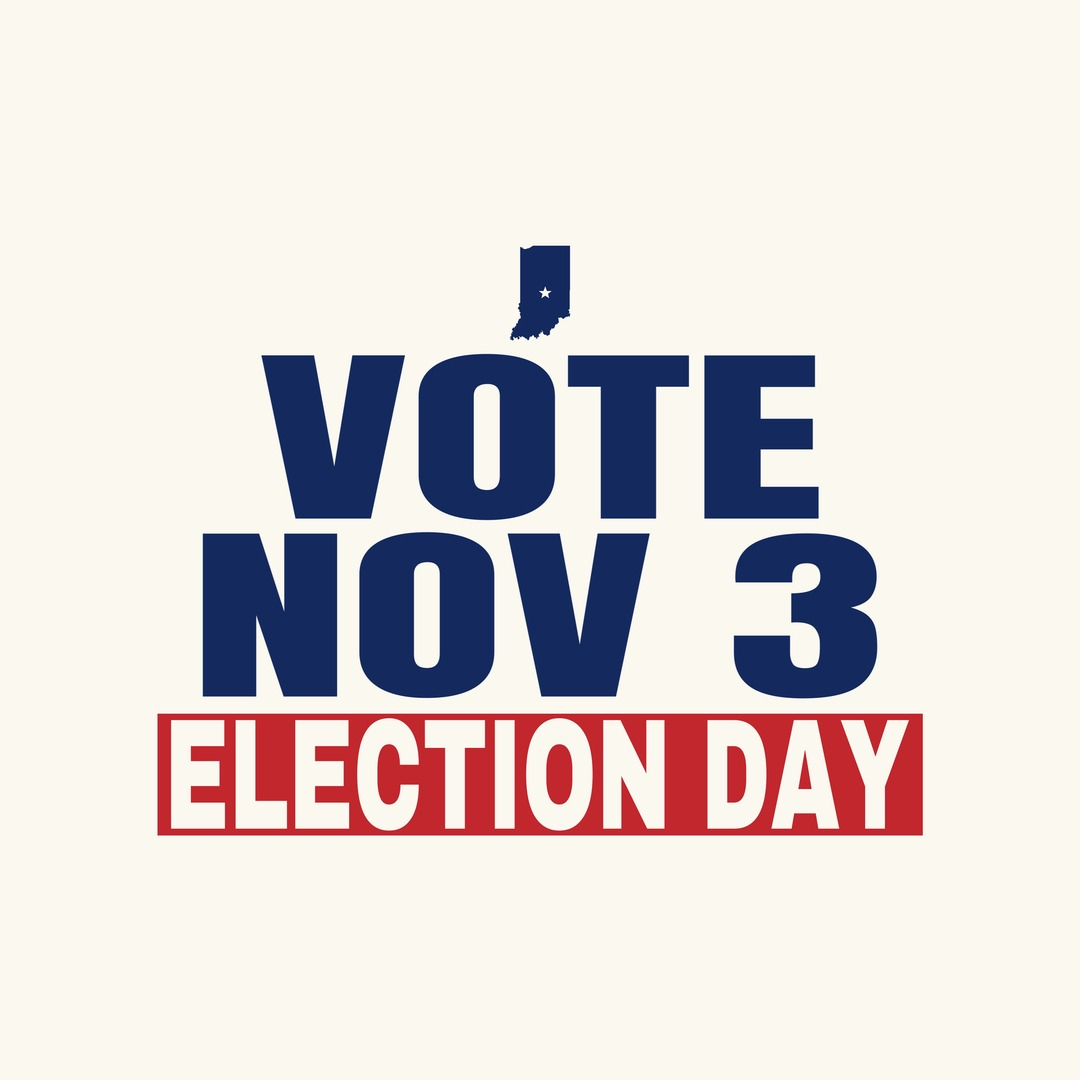
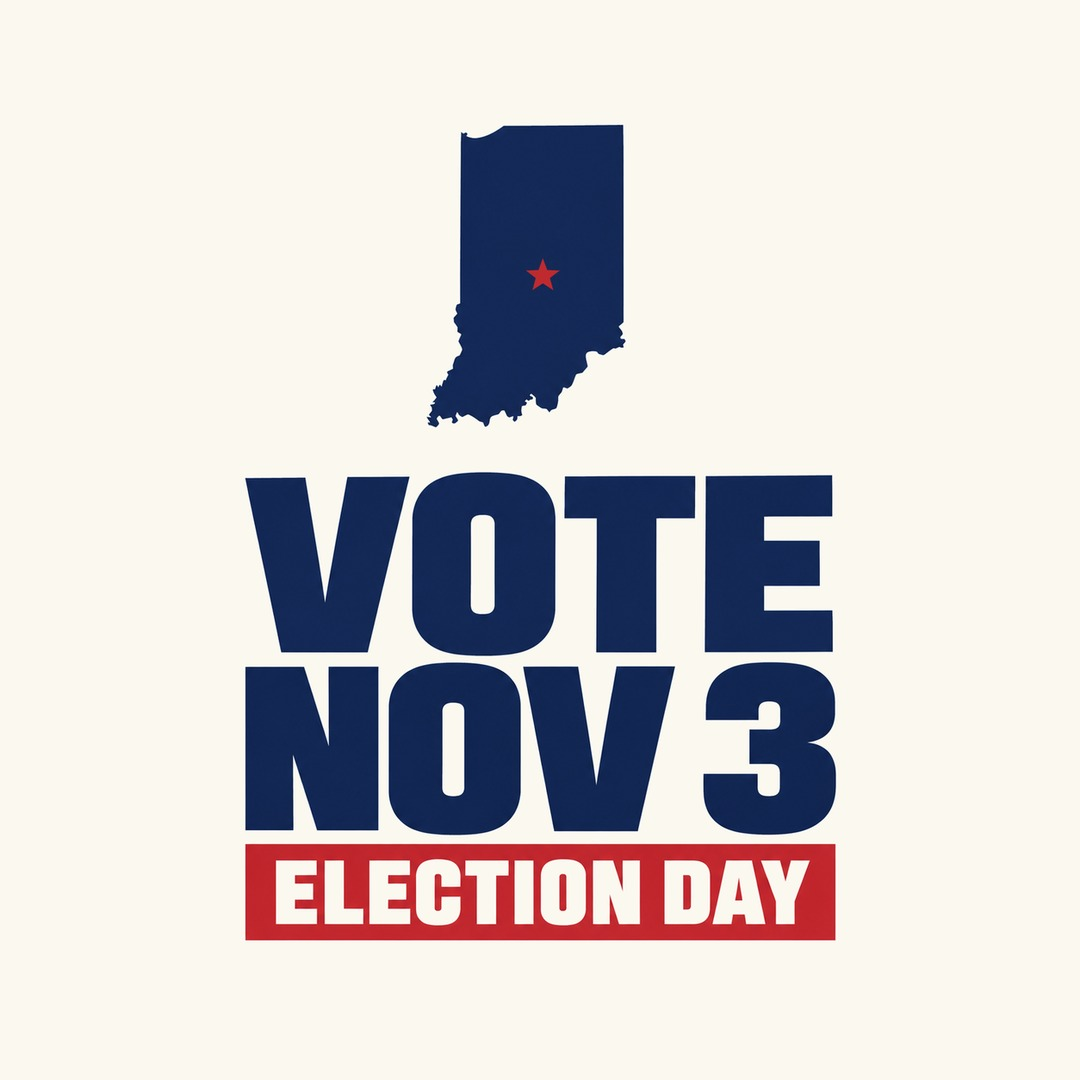
Indiana: 10 new ready-mades from Codex; retire the earlier set
Claude-Session: https://claude.ai/code/session_01U4jJBSt3CnGjJYrtPzNn5q

Changed region(s): [[0.1222, 0.0917, 0.8556, 0.8861]]

diff --git a/site/index.php b/site/index.php
@@ -83,7 +83,7 @@ function vote_files( $abbr ) {
 
 // The state hero shows one standout ready-made, tilted (October 20, Garrett): the design named here,
 // or the first in the set. Numbers match <abbr>-vote-N.jpg.
-const VOTE_HERO = array( 'MS' => 5, 'MI' => 7, 'ID' => 7, 'NJ' => 5, 'OR' => 5, 'MN' => 6, 'NE' => 6, 'AL' => 6, 'AZ' => 6, 'CT' => 7, 'DE' => 5, 'GA' => 5, 'FL' => 5, 'HI' => 6, 'IL' => 8, 'AR' => 6 );
+const VOTE_HERO = array( 'MS' => 5, 'MI' => 7, 'ID' => 7, 'NJ' => 5, 'OR' => 5, 'MN' => 6, 'NE' => 6, 'AL' => 6, 'AZ' => 6, 'CT' => 7, 'DE' => 5, 'GA' => 5, 'FL' => 5, 'HI' => 6, 'IL' => 8, 'AR' => 6, 'IN' => 5 );
 function vote_hero_file( $abbr ) {
 	$n = VOTE_HERO[ $abbr ] ?? 0;
 	$k = strtolower( $abbr );
